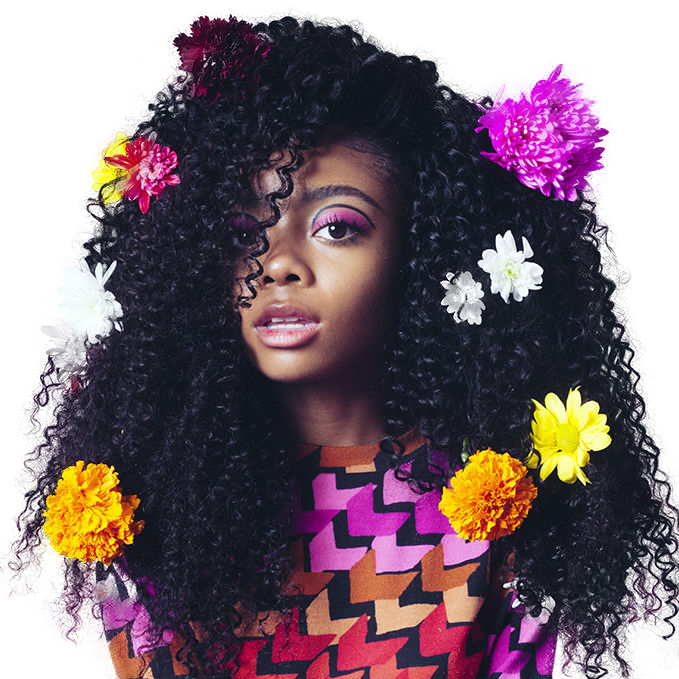
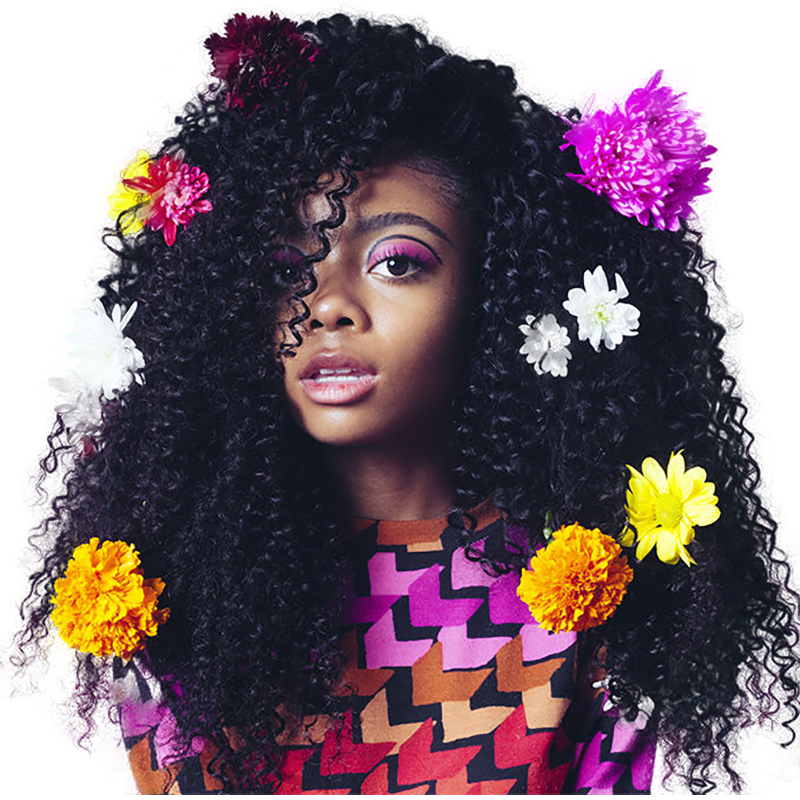
Header stuff
Added classes, div, and images to make up header. UN FINISHED !

diff --git a/index.html b/index.html
@@ -10,143 +10,144 @@
 <body>
     <div class="wrapper">
         <div class="nav">
-         <nav>
-             <ul>
-                 <li><a href="#0"> Services</a></li>
-                 <li><a href="#0">Shop</a></li>
-                 <li><a href="#0">About</a></li>
-                 <li><a href="#0">Gallery</a></li>
-                 <li><a href="#0">Contact</a></li>
-                 <li><a href="#0">Book now</a></li>
-             </ul>
-         </nav>
-         <!-- <img src="./images/cutout-skai.png" alt="Skai" class="img-01">
-         <img src="./images/cutout-skai.png" alt="Skai-two" class="img-02"> -->
-     </div> 
-    <div class="filler-header-pink"></div>
-     <div class="image-header">
-        
-       
-     <!-- <h1>kinks n' curls</h1> -->
-    </div> 
+            <nav>
+                <ul>
+                    <li><a href="#0"> Services</a></li>
+                    <li><a href="#0">Shop</a></li>
+                    <li><a href="#0">About</a></li>
+                    <li><a href="#0">Gallery</a></li>
+                    <li><a href="#0">Contact</a></li>
+                    <li><a href="#0">Book now</a></li>
+                </ul>
+            </nav>
+        </div>
+        <div class="filler-header-pink"></div>
+        <div class="image-header">
+                <img src="./images/cutout-skai.png" alt="Skai" class="img-01">
+                <img src="./images/big-cutout-skai.png" alt="Skai-two" class="img-02">
+         
+        <div><img src="./images/Asset 3.svg" alt="swoop" class="swoop"></div>        
+        <!-- <h1>kinks n' curls</h1> -->
+        </div> 
     <!-- end of where the header images and stuff will go -->
-    <div class="section sevices">
-        <div class="section-01-head-box">
+    
+        <!-- <div class="sec1bk"> -->
         <h2 class="sectionhead section-01-head">Services</h2>
-        </div>
-        <ul class="services-tabs">
-            <li>Color</li>
-            <li>Wash</li>
-            <li>Cut</li>
-            <li>Style</li>
-            <li>Spa</li>
-        </ul>
-        <div class="menu">
-            <figure class="menu-pic">blah <figurecaption class="menu-text">text here</figurecaption></figure>
-            <figure class="menu-pic">blah <figurecaption class="menu-text">text here</figurecaption></figure>
-            <figure class="menu-pic">blah <figurecaption class="menu-text">text here</figurecaption></figure>
-            <figure class="menu-pic">blah <figurecaption class="menu-text">text here</figurecaption></figure>
-            <figure class="menu-pic">blah <figurecaption class="menu-text">text here</figurecaption></figure>
-            <figure class="menu-pic">blah <figurecaption class="menu-text">text here</figurecaption></figure>
-        </div>
-    </div> 
-    <!-- end of services -->
-    <div class="section shop">
-        <h2 class="sectionhead section-02-head">Our Products</h2>
-        <div class="fleximage-and-productsection">
-            <img src="#0" alt="PNG IMAGE GIRL">
-            <div class="product-list">
-                <button class="arrowup"></button>
-                <ul>
-                    <li>product1</li>
-                    <li>product2</li>
-                    <li>product3</li>
-                </ul>
-                <button class="arrowdown"></button>
+        <!-- </div> -->
+        <div class="section sevices">
+            <ul class="services-tabs">
+                <li>Color</li>
+                <li>Wash</li>
+                <li>Cut</li>
+                <li>Style</li>
+                <li>Spa</li>
+            </ul>
+            <div class="menu">
+                <figure class="menu-pic">blah <figurecaption class="menu-text">text here</figurecaption></figure>
+                <figure class="menu-pic">blah <figurecaption class="menu-text">text here</figurecaption></figure>
+                <figure class="menu-pic">blah <figurecaption class="menu-text">text here</figurecaption></figure>
+                <figure class="menu-pic">blah <figurecaption class="menu-text">text here</figurecaption></figure>
+                <figure class="menu-pic">blah <figurecaption class="menu-text">text here</figurecaption></figure>
+                <figure class="menu-pic">blah <figurecaption class="menu-text">text here</figurecaption></figure>
+            </div>
+        </div> 
+        <!-- end of services -->
+        <div class="section shop">
+            <h2 class="sectionhead section-02-head">Our Products</h2>
+            <div class="fleximage-and-productsection">
+                <img src="#0" alt="PNG IMAGE GIRL">
+                <div class="product-list">
+                    <button class="arrowup"></button>
+                    <ul>
+                        <li>product1</li>
+                        <li>product2</li>
+                        <li>product3</li>
+                    </ul>
+                    <button class="arrowdown"></button>
+                </div>
             </div>
         </div>
-    </div>
-    <!-- end of shop -->
-    <div class="section about">
-        <h2 class="sectionhead section-03-head">About</h2>
-        <div class="about-sec">
-            <div class="team-bubbles">
-                <ul>
-                    <li></li>
-                    <li></li>
-                    <li></li>
-                    <li></li>
-                    <li></li>
-                </ul>
-            </div>
-            <div class="ours-story">
-                <h3>Our Story</h3>
-                <p>Lorem ipsum dolor sit amet consectetur adipisicing elit. Animi illum harum, officiis alias asperiores placeat nisi molestiae tempore est pariatur aut sequi corporis, velit consequatur soluta ad sapiente rerum blanditiis.</p>
-            </div>
-            <div class="join">
-                <h4>Join the Team!</h4>
-                <p>Lorem ipsum dolor, sit amet consectetur adipisicing elit. Deleniti impedit cum quam consectetur. </p>
-                <button class="apply-btn"></button>
+        <!-- end of shop -->
+        <div class="section about">
+            <h2 class="sectionhead section-03-head">About</h2>
+            <div class="about-sec">
+                <div class="team-bubbles">
+                    <ul>
+                        <li></li>
+                        <li></li>
+                        <li></li>
+                        <li></li>
+                        <li></li>
+                    </ul>
+                </div>
+                <div class="ours-story">
+                    <h3>Our Story</h3>
+                    <p>Lorem ipsum dolor sit amet consectetur adipisicing elit. Animi illum harum, officiis alias asperiores placeat nisi molestiae tempore est pariatur aut sequi corporis, velit consequatur soluta ad sapiente rerum blanditiis.</p>
+                </div>
+                <div class="join">
+                    <h4>Join the Team!</h4>
+                    <p>Lorem ipsum dolor, sit amet consectetur adipisicing elit. Deleniti impedit cum quam consectetur. </p>
+                    <button class="apply-btn"></button>
+                </div>
             </div>
         </div>
-    </div>
-    <!-- end of about -->
-    <div class="section gallery">
-        <h2 class="sectionhead section-04-head">Gallery *Fix Section</h2>
-        <button class="arrowleft"></button>
-        <img src="#0" alt="Slideshow">
-        <button class="arrowright"></button>
-    </div>
-    <!-- end of gallery -->
-    <div class="section contact">
-        <h2 class="sectionhead section-05-head">Contact</h2>
-        <div class="flex-map-form-image">
-            <img src="#0" alt="Google Maps">
-            <form action="Contact-Us"
-                    method="post"
-                    name="contact-form"
-                    class="contact-form"
-                    id="form">
-            <label for="name">Name</label>
-            <input type="text"
-                    id="name"
-                    name="name">
-            <br>
-            <label for="email">Email</label>
-            <input type="text"
-                    id="email"
-                    name="email">
-            <br>
-            <label for="phone">Phone</label>
-            <input type="text"
-                    id="phone"
-                    name="phone">
-            <br>
-            <label for="question">How would you like to be contacted?</label>
-            <input type="radio"
-                    id="phone-call"
-                    name="phone-call">
-            <label for="phone-call">Phone</label>
-            <input type="radio"
-                    id="email-me"
-                    name="email-me">
-            <label for="email-me">Email</label>
-            <br>
-            <label for="select-box">Select Reason: </label>
-            <select name="reason" id="select-box">
-                <option value="appointment">Appointment</option>
-                <option value="workshop">Workshop</option>
-                <option value="training">Training</option>
-                <option value="vendor">Vendor</option>
-                <option value="application">Application</option>
-            </select>
-            <br>
-            <textarea name="textarea" id="textarea">Enter comments here..</textarea>
-            </form>
-            <img src="#0" alt="PNG Image here">
+        <!-- end of about -->
+        <div class="section gallery">
+            <h2 class="sectionhead section-04-head">Gallery *Fix Section</h2>
+            <button class="arrowleft"></button>
+            <img src="#0" alt="Slideshow">
+            <button class="arrowright"></button>
         </div>
-    </div>
-    <!-- end of contact -->
+        <!-- end of gallery -->
+        <div class="section contact">
+            <h2 class="sectionhead section-05-head">Contact</h2>
+            <div class="flex-map-form-image">
+                <img src="#0" alt="Google Maps">
+                <form action="Contact-Us"
+                        method="post"
+                        name="contact-form"
+                        class="contact-form"
+                        id="form">
+                <label for="name">Name</label>
+                <input type="text"
+                        id="name"
+                        name="name">
+                <br>
+                <label for="email">Email</label>
+                <input type="text"
+                        id="email"
+                        name="email">
+                <br>
+                <label for="phone">Phone</label>
+                <input type="text"
+                        id="phone"
+                        name="phone">
+                <br>
+                <label for="question">How would you like to be contacted?</label>
+                <input type="radio"
+                        id="phone-call"
+                        name="phone-call">
+                <label for="phone-call">Phone</label>
+                <input type="radio"
+                        id="email-me"
+                        name="email-me">
+                <label for="email-me">Email</label>
+                <br>
+                <label for="select-box">Select Reason: </label>
+                <select name="reason" id="select-box">
+                    <option value="appointment">Appointment</option>
+                    <option value="workshop">Workshop</option>
+                    <option value="training">Training</option>
+                    <option value="vendor">Vendor</option>
+                    <option value="application">Application</option>
+                </select>
+                <br>
+                <textarea name="textarea" id="textarea">Enter comments here..</textarea>
+                </form>
+                <img src="#0" alt="PNG Image here">
+            </div>
+        </div>
+        <!-- end of contact -->
     <footer>
         <p>&copy; test 1</p>
     </footer>

diff --git a/scss/_header.scss b/scss/_header.scss
@@ -1,22 +1,31 @@
 /* Header Images */
 .image-header{
-    background-image: url('../images/header-image1.png');
+    background-image: url('../images/Asset 4.svg');
+    background-repeat: no-repeat;
     height: 725px;
     /* border-radius:  0 0 450px  50px; */
 }
-// .img-01{
-//     opacity: 0.3;
-//     margin-left: 375px;
-//     position: relative;
-// }
-// .img-02{
-//     position: absolute;
-//     top: 2%;
-//     left: 47%;
-// }
+.img-01{
+    opacity: 0.3;
+    margin-left: 420px;
+    position: relative;
+    top: -476px;
+}
+.img-02{
+    position: absolute;
+    top: 2%;
+    left: 47%;
+}
+
+.swoop{
+    position: absolute;
+    top: 61%;
+    left: 10%;
+    
+}
 
 // THIS IS THE PINK THAT PUSHES THE CURVE DOWN
 .filler-header-pink{
     background-color: #DC8282;
-    height: 475px;
+    height: 284px;
 }

diff --git a/scss/_nav.scss b/scss/_nav.scss
@@ -1,10 +1,11 @@
 // Nav styles 
 
 nav{
-    background-color: yellow;
+    position: fixed;
     margin: 0;
     height: 45px;
     width: 100%;
+    z-index: 1;
 }
 nav ul{
     margin: 0;
@@ -13,14 +14,13 @@ nav ul{
     display: flex;
 }
 nav li{
-    background-color: lightblue;
     flex: 1;
     
 }
 nav a{
     line-height: 45px;
     text-decoration: none;
-    background-color: lightgrey;
+    background-color: white;
     display: block;
     text-align: center;
 }

diff --git a/scss/_sections.scss b/scss/_sections.scss
@@ -2,10 +2,12 @@
 
 //Services
 /* Section one header */
-.section-01-head-box{
-    background-color: #c7b299;
-    line-height: 100px;
-}
+// .sec1bk{
+//     background-color: #c7b299;
+//     line-height: 100px;
+//     border-radius: 11em 0;
+//     transform: skew(0, 30deg);
+// }
 //Products
 //About
 //Gallery
